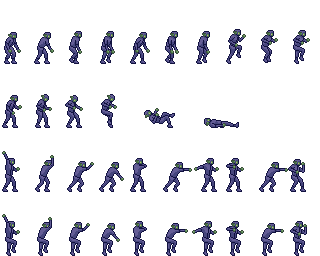
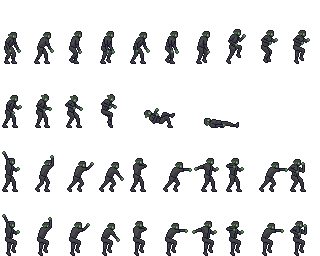
Changed ninja color, fixed goblin a.i. turning, and dunes

diff --git a/Source/Server/Creatures/ServerGoblin.java b/Source/Server/Creatures/ServerGoblin.java
@@ -529,7 +529,7 @@ public class ServerGoblin extends ServerCreature {
 					onTarget = false;
 				}
 
-				if (getTarget() != null && !onTarget && action == null) {
+				if (getTarget() != null && !onTarget && action == null && getWorld().getWorldCounter()%60==0) {
 					if ((getX() + getWidth() / 2 < getTarget().getX())) {
 						setHSpeed(movementSpeed);
 					} else {
